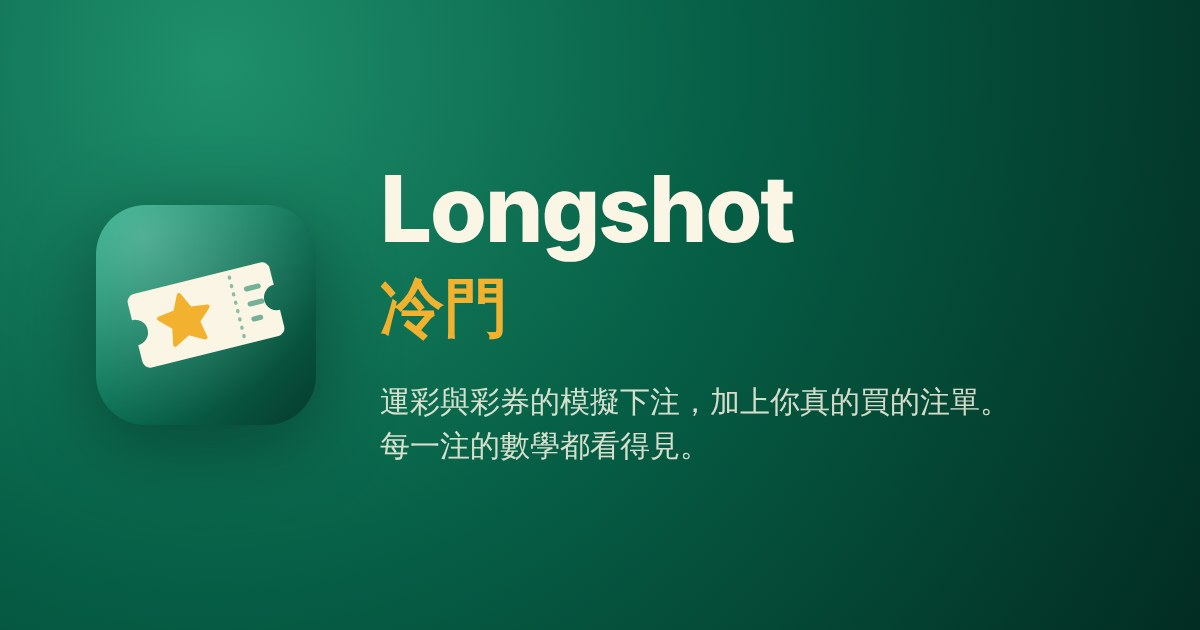
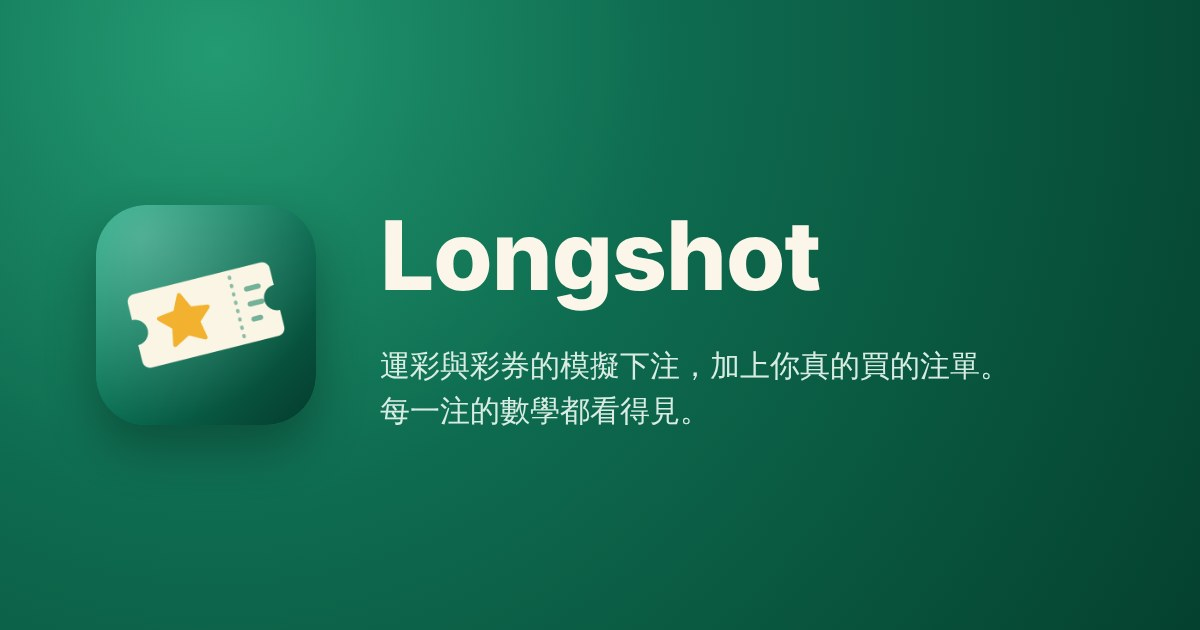
Stay signed in across restarts; English name only; ledger rows padded
The kit checked the stored account id for 16 hex digits, but Longshot ids
are 16 letters and digits, so every app start looked signed out. The app is
Longshot everywhere (title, home-screen name, share card, sign-in, Worker
messages, admin). 最近明細 rows get their padding back; the account sheet's
card header, section spacing and record buttons fit at 320 px.

Claude-Session: https://claude.ai/code/session_01NoWe4DeV99beuDhDWd6JEx

Changed region(s): [[0.3083, 0.2714, 0.8325, 0.754]]

diff --git a/public/index.html b/public/index.html
@@ -8,16 +8,16 @@
 <meta name="apple-mobile-web-app-status-bar-style" content="default" />
 <meta name="build-version" content="dev" />
 <!-- A newer deploy is loaded by kit/boot.js (and kept current by core.mjs watchUpdates). -->
-<title>Longshot · 冷門</title>
+<title>Longshot</title>
 <meta name="description" content="運彩與彩券的模擬下注，加上你真的買的運彩注單：每一注的數學都看得見。" />
 <meta name="application-name" content="Longshot" />
-<meta name="apple-mobile-web-app-title" content="冷門" />
+<meta name="apple-mobile-web-app-title" content="Longshot" />
 <link rel="icon" href="./favicon.svg" type="image/svg+xml" />
 <link rel="icon" href="./icons/favicon-32.png" sizes="32x32" type="image/png" />
 <link rel="apple-touch-icon" href="./icons/apple-touch-icon.png" />
 <meta property="og:type" content="website" />
 <meta property="og:site_name" content="Longshot" />
-<meta property="og:title" content="Longshot · 冷門" />
+<meta property="og:title" content="Longshot" />
 <meta property="og:description" content="運彩與彩券的模擬下注，加上你真的買的運彩注單：每一注的數學都看得見。" />
 <meta property="og:url" content="https://jaypengx.github.io/Longshot/" />
 <meta property="og:locale" content="zh_TW" />
@@ -26,9 +26,9 @@
 <meta property="og:image:type" content="image/jpeg" />
 <meta property="og:image:width" content="1200" />
 <meta property="og:image:height" content="630" />
-<meta property="og:image:alt" content="Longshot · 冷門" />
+<meta property="og:image:alt" content="Longshot" />
 <meta name="twitter:card" content="summary_large_image" />
-<meta name="twitter:title" content="Longshot · 冷門" />
+<meta name="twitter:title" content="Longshot" />
 <meta name="twitter:description" content="運彩與彩券的模擬下注，加上你真的買的運彩注單：每一注的數學都看得見。" />
 <meta name="twitter:image" content="https://jaypengx.github.io/Longshot/share/og.jpg" />
 <meta name="apple-mobile-web-app-capable" content="yes" />
@@ -41,13 +41,13 @@
 <link rel="stylesheet" href="./slips/slips.css" />
 </head>
 <body>
-<div id="loading" data-title="冷門"></div>
+<div id="loading" data-title="Longshot"></div>
 <script src="./kit/boot.js"></script>
 <header class="q-appbar">
   <div class="q-appbar-inner">
     <div class="q-brand">
       <img class="q-brand-logo" src="./favicon.svg" alt="" width="34" height="34" />
-      <div class="q-brand-text"><h1 id="title">冷門</h1></div>
+      <div class="q-brand-text"><h1 id="title">Longshot</h1></div>
     </div>
     <nav id="tabs" class="q-tabbar" role="tablist"></nav>
     <div id="top-actions" class="q-actions"></div>

diff --git a/public/kit/core.css b/public/kit/core.css
@@ -2607,6 +2607,7 @@ dialog.q-moved::backdrop {
 }
 .q-hero-top {
   display: flex;
+  flex-wrap: wrap;
   justify-content: space-between;
   align-items: center;
   gap: 10px;
@@ -2617,6 +2618,7 @@ dialog.q-moved::backdrop {
 }
 .q-hero-brand {
   font-weight: 800;
+  white-space: nowrap;
 }
 .q-hero-no {
   letter-spacing: 0.08em;
@@ -2784,6 +2786,8 @@ dialog {
 .q-pass .pad { padding: 14px; }
 .q-pass .q-card + .q-card { margin-top: 12px; }
 .q-pass .q-card.list { padding: 0; overflow: hidden; }
+.q-pass .q-card.list.q-recent { padding: 2px 16px; }
+.q-pass .q-sheet-h { margin: 22px 0 8px; }
 .q-pass .section-sub { color: var(--q-muted); font-size: 13px; margin: -6px 0 10px; }
 .q-pass .q-btn.ghost { background: none; border-color: transparent; }
 .q-pass .q-btn.block { width: 100%; }
@@ -2793,7 +2797,7 @@ dialog {
 .q-pass .q-chips.small .q-chip { min-height: 30px; padding: 0 12px; font-size: 13px; }
 
 .q-pass .looks { display: grid; gap: 10px; }
-/* ---- Truth ---- */
+/* (Its own layout, whatever a page's own .facts is.) */
 /* (Its own layout, whatever an app's own .facts is: Orbit Sports' is a two-column grid.) */
 .q-pass .facts { display: block; grid-template-columns: none; gap: 0; margin: 0; padding: 0; list-style: none; font-size: inherit; color: inherit; }
 .q-pass .facts .t-row { display: grid; grid-template-columns: minmax(0, 1fr) auto; align-items: center; gap: 12px; padding: 11px 14px; border-top: 1px solid var(--q-divider, var(--q-border)); }
@@ -2810,10 +2814,17 @@ dialog {
 
 /* 除錯紀錄: its buttons under the switch, and a small red dot at the top while recording. */
 .q-rec-acts {
-  display: flex;
-  flex-wrap: wrap;
+  /* One row of three at any width (清除 sat alone on a second row at 320 px). */
+  display: grid;
+  grid-template-columns: repeat(3, minmax(0, 1fr));
   gap: 8px;
   padding: 2px 14px 12px;
+}
+.q-rec-acts .q-chip {
+  justify-content: center;
+  min-width: 0;
+  padding-inline: 8px;
+  white-space: nowrap;
 }
 html.q-recording body::after {
   content: '';

diff --git a/public/admin/index.html b/public/admin/index.html
@@ -6,7 +6,7 @@
 <meta name="robots" content="noindex" />
 <meta name="theme-color" media="(prefers-color-scheme: light)" content="#f2f2f7" />
 <meta name="theme-color" media="(prefers-color-scheme: dark)" content="#000000" />
-<title>冷門 管理</title>
+<title>Longshot 管理</title>
 <link rel="icon" href="../favicon.svg" type="image/svg+xml" />
 <link rel="stylesheet" href="../kit/core.css" />
 <link rel="stylesheet" href="./admin.css" />
@@ -15,12 +15,12 @@
 <main class="ad">
   <header class="ad-head">
     <img src="../favicon.svg" alt="" width="36" height="36" />
-    <h1>冷門 管理</h1>
+    <h1>Longshot 管理</h1>
     <button id="out" class="ad-link" type="button" hidden>登出</button>
   </header>
 
   <section id="gate" class="ad-card ad-gate">
-    <h2 id="gate-title">冷門 管理</h2>
+    <h2 id="gate-title">Longshot 管理</h2>
     <p id="gate-text" class="ad-muted">載入中…</p>
     <form id="gate-form" hidden>
       <input id="gate-pass" class="ad-input mono" autocomplete="off" autocapitalize="characters" spellcheck="false" placeholder="XXXXX-XXXXX" />
@@ -32,7 +32,7 @@
 
   <section id="born" class="ad-card" hidden>
     <h2>你的管理員通行碼</h2>
-    <p class="ad-muted">只顯示這一次。記下來，用它登入冷門和這個頁面。</p>
+    <p class="ad-muted">只顯示這一次。記下來，用它登入 Longshot 和這個頁面。</p>
     <p id="born-code" class="ad-code mono"></p>
     <button id="born-ok" class="q-btn primary block" type="button">我記下來了</button>
   </section>

diff --git a/worker/http.js b/worker/http.js
@@ -54,9 +54,9 @@ const ERRORS = {
   UNKNOWN_APP: ['Unknown app', '未知的應用程式'],
   UNKNOWN_OP: ['Unknown operation', '未知的操作'],
   TOKEN_INVALID: ['Your sign-in has expired. Signing in again…', '登入已過期，正在重新登入…'],
-  SIGNED_OUT: ['This device was signed out. Sign in with your Longshot Pass.', '這台裝置已登出，請用冷門通行證登入。'],
-  SESSION_MOVED: ['Longshot is open on another device.', '冷門正在另一台裝置使用中。'],
-  PASS_REQUIRED: ['Sign in with your Longshot Pass.', '請用冷門通行證登入。'],
+  SIGNED_OUT: ['This device was signed out. Sign in with your Longshot Pass.', '這台裝置已登出，請用 Longshot Pass 登入。'],
+  SESSION_MOVED: ['Longshot is open on another device.', 'Longshot 正在另一台裝置使用中。'],
+  PASS_REQUIRED: ['Sign in with your Longshot Pass.', '請用 Longshot Pass 登入。'],
   NOT_FOUND: ['Not found', '找不到此路徑。'],
   WORKER_FAILED: ['Something went wrong. Please try again.', '發生錯誤，請再試一次。']
 };

diff --git a/README.md b/README.md
@@ -1,4 +1,4 @@
-# Longshot · 冷門
+# Longshot
 
 A Taiwan sportsbook and Taiwan Lottery's games on play money, and the real
 台灣運彩 tickets you bought, followed live. It prices and settles like a

diff --git a/CLAUDE.md b/CLAUDE.md
@@ -1,4 +1,4 @@
-# Working on Longshot · 冷門
+# Working on Longshot
 
 Read `docs/TRUTH.md` first (one page: how the owner works and what matters).
 The README is this repo's map.
